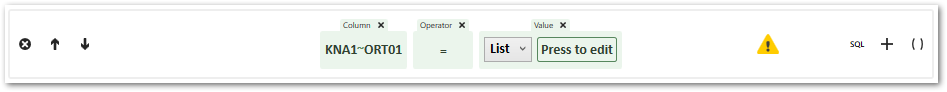
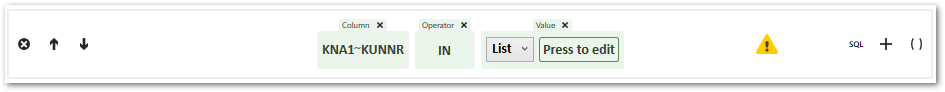
2

diff --git a/content/_xtract-universal/where-clause-editor-select.md b/content/_xtract-universal/where-clause-editor-select.md
@@ -6,48 +6,59 @@ permalink: /:collection/:path
 weight: 160
 ---
 
-This article shows how to use lists and SELECT statements in Xtract Universal's [WHERE Clause Editor](https://help.theobald-software.com/en/xtract-universal/table/where-clause#where-clause-editor).<br>
+This article shows how to use static lists and SELECT statements in Xtract Universal's [WHERE Clause Editor](https://help.theobald-software.com/en/xtract-universal/table/where-clause#where-clause-editor).<br>
+
+{: .box-note }
+**Note:** List parameters or not yet supported by the Table component.
 
 <!---
 ### List Parameters
 
-List parameters are not yet supported in the Table component.
-
-1. Create a Table extraction, see [Online Help: Defining a Table Extraction](https://help.theobald-software.com/en/xtract-universal/getting-started/define-a-table-extraction).<br>
-Look up the SAP Table *KNA1*.
-2. Open the *WHERE Clause* tab in the main window of the extraction and click **[Editor Mode]** to open the WHERE clause editor. <br>
-![where-clause-builder](/img/contents/where-clause-builder.png){:class="img-responsive"}
-3. Click **[Add criteria]**.
-4. Click **[Default with parameter].
+1. Create a Table extraction for the SAP table KNA1, see [Online Help: Defining a Table Extraction](https://help.theobald-software.com/en/xtract-universal/getting-started/define-a-table-extraction).<br>
+2. Navigate to the *WHERE Clause* tab in the main window of the extraction and click **[Editor Mode]** to open the WHERE clause editor. <br>
+![where-clause-editor](/img/contents/where-clause-builder.png){:class="img-responsive"}
+3. Click **[Add criteria]** and **[Default with parameter] to create an empty template in the WHERE clause editor.
 -->
 
 ### Static Lists
 
-Create a list of literal values.
+The following example statement returns all the active customers (rows in the table KNA1) that have an address in one of the following cities: Berlin, Stuttgart, Paris, Seattle, Hong Kong or Dongguan.
 
-1. Create a Table extraction, see [Online Help: Defining a Table Extraction](https://help.theobald-software.com/en/xtract-universal/getting-started/define-a-table-extraction).<br>
-2. Open the *WHERE Clause* tab in the main window of the extraction and click **[Editor Mode]** to open the WHERE clause editor. <br>
+1. Create a Table extraction for the SAP table KNA1, see [Online Help: Defining a Table Extraction](https://help.theobald-software.com/en/xtract-universal/getting-started/define-a-table-extraction).<br>
+2. Navigate to the *WHERE Clause* tab in the main window of the extraction and click **[Editor Mode]** to open the WHERE clause editor. <br>
 ![where-clause-editor](/img/contents/where-clause-builder.png){:class="img-responsive"}
-3. Click **[Add criteria]**.
-4. Click **[Default with literal]**.
-5. Select *List* the type for the literal value.<br>
+3. Click **[Add criteria]** and **[Default with literal]** to create an empty template in the WHERE clause editor.
+4. Select the column *ORT01* from KNA1 as the data that is filtered.
+5. Select *IN* as the operator. *IN* is the only operator that can be used for lists.
+6. Select *List* as the type of the static filter value.<br>
 ![where-clause-editor](/img/contents/xu/where-clause-editor-01.png){:class="img-responsive"}
-6. Click **[Press to Edit]**. The window "Edit List" opens.
-7. Select *String* or *Number* as the type of the list. 
-8. Click **[Add]** to create new list items. Edit the items via double-click.<br>
-![where-clause-editor](/img/contents/xu/where-clause-editor-01.png){:class="img-responsive"}
+7. Click **[Press to Edit]** in the static value component of the WHERE clause. The window "Edit List" opens.
+8. Select either *String* or *Number* in the field **Type**.
+9. Click **[Add]** to add items to the list. You can edit items by double-clicking an item.<br>
+![where-clause-editor](/img/contents/xu/where-clause-editor-04.png){:class="img-responsive"}
+10. Click **[OK]** to confirm your input.
+11. Click **[Load live Preview]** or run the extraction to check the output.
+
 
 ### SELECT Statement
 
-SELECT statements can be used to select data from a database, see [Microsoft Documentation: SELECT (Transact-SQL)](https://learn.microsoft.com/en-us/sql/t-sql/queries/select-transact-sql?view=sql-server-ver16).
+SELECT statements can be used to select data from SAP tables, see [ABAP Documentation: Open SQL SELECT](https://help.sap.com/doc/abapdocu_750_index_htm/7.50/en-us/abapselect.htm).<br>
+The following example statement returns all the active customers (rows in the table KNA1) that have a sales document in the table VBAK for sales document header data.
 
-1. Create a Table extraction, see [Online Help: Defining a Table Extraction](https://help.theobald-software.com/en/xtract-universal/getting-started/define-a-table-extraction).<br>
-2. Open the *WHERE Clause* tab in the main window of the extraction and click **[Editor Mode]** to open the WHERE clause editor. <br>
+{: .box-note }
+**Note:** The usage of SELECT statements is only possible as of SAP Release 7.40, SP05.
+
+1. Create a Table extraction for the SAP table KNA1, see [Online Help: Defining a Table Extraction](https://help.theobald-software.com/en/xtract-universal/getting-started/define-a-table-extraction).<br>
+2. Navigate to the *WHERE Clause* tab in the main window of the extraction and click **[Editor Mode]** to open the WHERE clause editor. <br>
 ![where-clause-editor](/img/contents/where-clause-builder.png){:class="img-responsive"}
-3. Click **[Add criteria]**.
-4. Click **[Default with literal]**.
-5. Select *List* the type for the literal value.<br>
+3. Click **[Add criteria]** and **[Default with literal]** to create an empty template in the WHERE clause editor.
+4. Select the column *KUNNR* from KNA1 as the data that is filtered.
+5. Select *IN* as the operator. *IN* is the only operator that can be used for lists.
+6. Select *List* as the type of the static filter value.<br>
 ![where-clause-editor](/img/contents/xu/where-clause-editor-01.png){:class="img-responsive"}
-6. Click **[Press to Edit]**. The window "Edit List" opens.
-7. Select *SELECT* as the type of the list. 
-8. Enter a SELECT statement in **SELECT statement**.
+7. Click **[Press to Edit]** in the static value component of the WHERE clause. The window "Edit List" opens.
+8. Select *SELECT* in the field **Type** to create a list using a SELECT statement. 
+9. Enter the SELECT statement ```SELECT KUNNR FROM VBAK```to create a list that contains all items of the column KUNNR from the SAP table VBAK.<br>
+![where-clause-editor](/img/contents/xu/select-statement.png){:class="img-responsive"}
+10. Click **[OK]** to confirm your input.
+11. Click **[Load live Preview]** or run the extraction to check the output.
